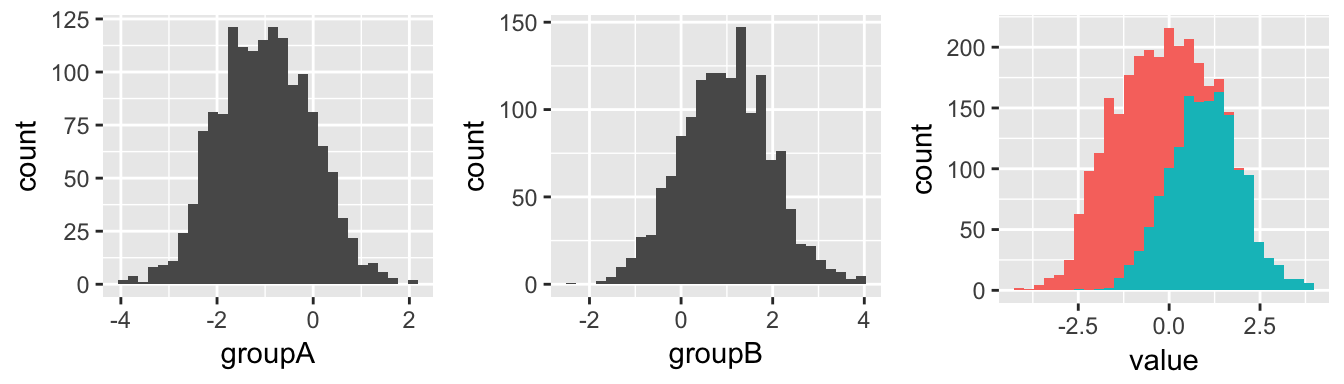
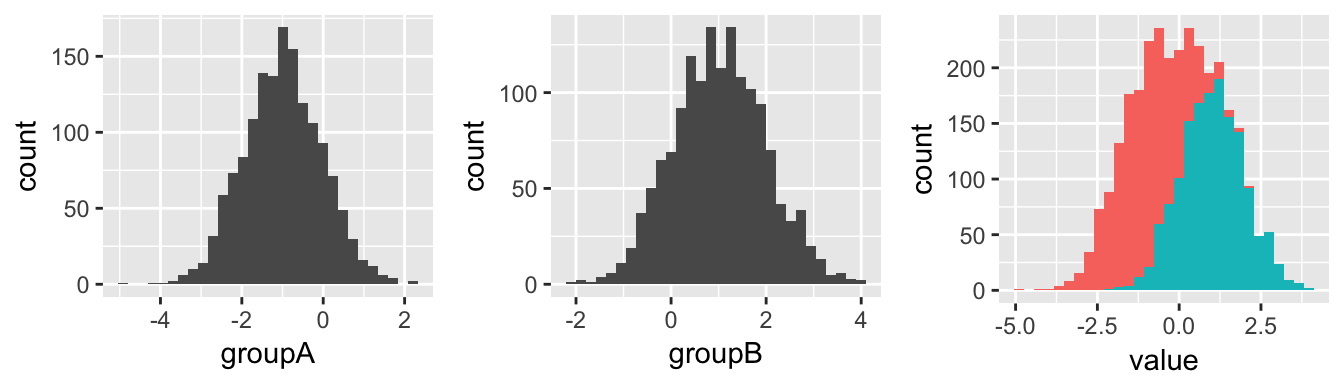
udpated

diff --git a/ttest.html b/ttest.html
@@ -316,18 +316,6 @@ div.tocify {
     </li>
   </ul>
 </li>
-<li class="dropdown">
-  <a href="#" class="dropdown-toggle" data-toggle="dropdown" role="button" aria-expanded="false">
-    Sample Analyses
-     
-    <span class="caret"></span>
-  </a>
-  <ul class="dropdown-menu" role="menu">
-    <li>
-      <a href="GOTS7tweets.html">Text Analysis</a>
-    </li>
-  </ul>
-</li>
       </ul>
       <ul class="nav navbar-nav navbar-right">
         
@@ -369,13 +357,13 @@ div.tocify {
 ##  Welch Two Sample t-test
 ## 
 ## data:  listA and listB
-## t = -54.672, df = 2996.5, p-value &lt; 2.2e-16
+## t = -55.822, df = 2995.8, p-value &lt; 2.2e-16
 ## alternative hypothesis: true difference in means is not equal to 0
 ## 95 percent confidence interval:
-##  -2.094016 -1.949018
+##  -2.097696 -1.955332
 ## sample estimates:
 ##  mean of x  mean of y 
-## -1.0328177  0.9886994</code></pre>
+## -0.9955335  1.0309805</code></pre>
 <ul>
 <li><p>Large <strong>t-value</strong> and a Small <strong>p-value &lt;.01</strong> = we accept the hypothesis that the means of list A and list B show statistically significant differences at a 99% confidence interval.</p></li>
 <li><p><strong>listA mean</strong> is estimated at approxiately -1 and <strong>listB mean</strong> is estimated at approximately 1.</p></li>
@@ -399,28 +387,28 @@ listB &lt;- rnorm(1500, mean = 1)  #Produce list of random values w/ mean of 1 &
 </thead>
 <tbody>
 <tr class="odd">
-<td align="right">-1.3545005</td>
-<td align="right">1.5403710</td>
+<td align="right">-1.0496810</td>
+<td align="right">1.0545169</td>
 </tr>
 <tr class="even">
-<td align="right">-1.6375959</td>
-<td align="right">0.1420701</td>
+<td align="right">-1.5027733</td>
+<td align="right">1.2537240</td>
 </tr>
 <tr class="odd">
-<td align="right">-0.2843273</td>
-<td align="right">0.0084206</td>
+<td align="right">-0.7705414</td>
+<td align="right">1.9502973</td>
 </tr>
 <tr class="even">
-<td align="right">0.0531385</td>
-<td align="right">0.1398901</td>
+<td align="right">-1.0109034</td>
+<td align="right">-0.8806415</td>
 </tr>
 <tr class="odd">
-<td align="right">-3.1462450</td>
-<td align="right">1.6279171</td>
+<td align="right">-1.1865402</td>
+<td align="right">0.9516308</td>
 </tr>
 <tr class="even">
-<td align="right">0.2457779</td>
-<td align="right">1.7787919</td>
+<td align="right">-0.6934949</td>
+<td align="right">0.7760313</td>
 </tr>
 </tbody>
 </table>
@@ -430,13 +418,13 @@ listB &lt;- rnorm(1500, mean = 1)  #Produce list of random values w/ mean of 1 &
 ##  Welch Two Sample t-test
 ## 
 ## data:  listA and listB
-## t = -53.562, df = 2996.4, p-value &lt; 2.2e-16
+## t = -55.034, df = 2994.4, p-value &lt; 2.2e-16
 ## alternative hypothesis: true difference in means is not equal to 0
 ## 95 percent confidence interval:
-##  -2.037818 -1.893889
+##  -2.070223 -1.927783
 ## sample estimates:
 ##  mean of x  mean of y 
-## -0.9579611  1.0078923</code></pre>
+## -0.9887373  1.0102655</code></pre>
 <p><br/></p>
 </div>
 <div id="if-data-are-contained-in-1-dataset-distinguished-by-a-binary-grouping-variable" class="section level4">
@@ -455,27 +443,27 @@ kable(head(groupAB))</code></pre>
 <tbody>
 <tr class="odd">
 <td align="left">listA</td>
-<td align="right">-1.3545005</td>
+<td align="right">-1.0496810</td>
 </tr>
 <tr class="even">
 <td align="left">listA</td>
-<td align="right">-1.6375959</td>
+<td align="right">-1.5027733</td>
 </tr>
 <tr class="odd">
 <td align="left">listA</td>
-<td align="right">-0.2843273</td>
+<td align="right">-0.7705414</td>
 </tr>
 <tr class="even">
 <td align="left">listA</td>
-<td align="right">0.0531385</td>
+<td align="right">-1.0109034</td>
 </tr>
 <tr class="odd">
 <td align="left">listA</td>
-<td align="right">-3.1462450</td>
+<td align="right">-1.1865402</td>
 </tr>
 <tr class="even">
 <td align="left">listA</td>
-<td align="right">0.2457779</td>
+<td align="right">-0.6934949</td>
 </tr>
 </tbody>
 </table>
@@ -485,13 +473,13 @@ kable(head(groupAB))</code></pre>
 ##  Welch Two Sample t-test
 ## 
 ## data:  value by groupAB
-## t = -53.562, df = 2996.4, p-value &lt; 2.2e-16
+## t = -55.034, df = 2994.4, p-value &lt; 2.2e-16
 ## alternative hypothesis: true difference in means is not equal to 0
 ## 95 percent confidence interval:
-##  -2.037818 -1.893889
+##  -2.070223 -1.927783
 ## sample estimates:
 ## mean in group listA mean in group listB 
-##          -0.9579611           1.0078923</code></pre>
+##          -0.9887373           1.0102655</code></pre>
 <p><br/></p>
 </div>
 </div>
@@ -505,13 +493,13 @@ kable(head(groupAB))</code></pre>
 ##  Paired t-test
 ## 
 ## data:  value by groupAB
-## t = -54.266, df = 1499, p-value &lt; 2.2e-16
+## t = -54.726, df = 1499, p-value &lt; 2.2e-16
 ## alternative hypothesis: true difference in means is not equal to 0
 ## 95 percent confidence interval:
-##  -2.036913 -1.894794
+##  -2.070654 -1.927352
 ## sample estimates:
 ## mean of the differences 
-##               -1.965853</code></pre>
+##               -1.999003</code></pre>
 <ul>
 <li><p>Large <strong>t-value</strong> and a Small <strong>p-value &lt;.01</strong> = we accept the hypothesis that the means of listA and listB show statistically significant differences at a 99% confidence interval.</p></li>
 <li><p>The <strong>mean of the differences:</strong> As the name implies, this shows the mean of the differences between groups. <em>When comparing experimental results on the same group of subjects, this might be considered something of an effect size</em>.</p></li>

diff --git a/chisquare.html b/chisquare.html
@@ -494,16 +494,16 @@ kable(AB)</code></pre>
 </thead>
 <tbody>
 <tr class="odd">
-<td align="right">55</td>
-<td align="right">51</td>
 <td align="right">48</td>
-<td align="right">46</td>
+<td align="right">54</td>
+<td align="right">43</td>
+<td align="right">55</td>
 </tr>
 <tr class="even">
-<td align="right">30</td>
-<td align="right">13</td>
-<td align="right">39</td>
-<td align="right">118</td>
+<td align="right">21</td>
+<td align="right">8</td>
+<td align="right">41</td>
+<td align="right">130</td>
 </tr>
 </tbody>
 </table>
@@ -514,7 +514,7 @@ kable(AB)</code></pre>
 ##  Pearson&#39;s Chi-squared test
 ## 
 ## data:  AB
-## X-squared = 62.456, df = 3, p-value = 1.755e-13</code></pre>
+## X-squared = 75.147, df = 3, p-value = 3.369e-16</code></pre>
 <p>A p-value less than the signficiance level of .1/.05/.01 tells us that these groups show statistically significant differences in their distributions between the 4 categories. <strong>The samples are heterogeneous</strong></p>
 <p><br/> <br/></p>
 <p><strong>Homogenous Example:</strong> Two samples show a similar distribution between 4 categories.</p>
@@ -544,16 +544,16 @@ kable(AB)</code></pre>
 </thead>
 <tbody>
 <tr class="odd">
-<td align="right">51</td>
-<td align="right">48</td>
-<td align="right">52</td>
-<td align="right">49</td>
+<td align="right">46</td>
+<td align="right">54</td>
+<td align="right">55</td>
+<td align="right">45</td>
 </tr>
 <tr class="even">
-<td align="right">55</td>
-<td align="right">50</td>
-<td align="right">48</td>
 <td align="right">47</td>
+<td align="right">57</td>
+<td align="right">61</td>
+<td align="right">35</td>
 </tr>
 </tbody>
 </table>
@@ -563,7 +563,7 @@ kable(AB)</code></pre>
 ##  Pearson&#39;s Chi-squared test
 ## 
 ## data:  AB
-## X-squared = 0.39343, df = 3, p-value = 0.9416</code></pre>
+## X-squared = 1.6522, df = 3, p-value = 0.6476</code></pre>
 <p>A p-value greater than the signficiance level of .1/.05/.01 tells us that these groups do not show statistically significant differences in their distributions between the 4 categories. <strong>The samples are homogeneous</strong></p>
 <p><br/> <br/></p>
 <hr width="90%">
@@ -595,7 +595,7 @@ MyTest$data.name</code></pre>
 <h4>statistic (chi-squared test statistic)</h4>
 <pre class="r"><code>MyTest$statistic</code></pre>
 <pre><code>## X-squared 
-## 0.3934264</code></pre>
+##  1.652179</code></pre>
 </div>
 <div id="parameter-degrees-of-freedom" class="section level4">
 <h4>parameter (degrees of freedom)</h4>
@@ -606,7 +606,7 @@ MyTest$data.name</code></pre>
 <div id="p.value-p-value-for-the-test" class="section level4">
 <h4>p.value (p-value for the test)</h4>
 <pre class="r"><code>MyTest$p.value</code></pre>
-<pre><code>## [1] 0.9415971</code></pre>
+<pre><code>## [1] 0.6476174</code></pre>
 </div>
 <div id="method-type-of-test-performed" class="section level4">
 <h4>method (Type of test performed)</h4>
@@ -617,22 +617,22 @@ MyTest$data.name</code></pre>
 <h4>observed (observations)</h4>
 <pre class="r"><code>MyTest$observed</code></pre>
 <pre><code>##       1  2  3  4
-## [1,] 51 48 52 49
-## [2,] 55 50 48 47</code></pre>
+## [1,] 46 54 55 45
+## [2,] 47 57 61 35</code></pre>
 </div>
 <div id="expected-expected-counts-under-the-null-hypothesis-or-given-probabilty" class="section level4">
 <h4>expected (expected counts under the null hypothesis or given probabilty)</h4>
 <pre class="r"><code>MyTest$expected</code></pre>
-<pre><code>##       1  2  3  4
-## [1,] 53 49 50 48
-## [2,] 53 49 50 48</code></pre>
+<pre><code>##         1    2  3  4
+## [1,] 46.5 55.5 58 40
+## [2,] 46.5 55.5 58 40</code></pre>
 </div>
 <div id="residuals-pearson-residuals" class="section level4">
 <h4>residuals (Pearson residuals)</h4>
 <pre class="r"><code>MyTest$residuals</code></pre>
-<pre><code>##               1          2          3          4
-## [1,] -0.2747211 -0.1428571  0.2828427  0.1443376
-## [2,]  0.2747211  0.1428571 -0.2828427 -0.1443376</code></pre>
+<pre><code>##                1          2          3          4
+## [1,] -0.07332356 -0.2013468 -0.3939193  0.7905694
+## [2,]  0.07332356  0.2013468  0.3939193 -0.7905694</code></pre>
 <hr width="90%">
 </div>
 </div>

diff --git a/GOTS7tweets.html b/GOTS7tweets.html
@@ -230,18 +230,6 @@ $(document).ready(function () {
     </li>
   </ul>
 </li>
-<li class="dropdown">
-  <a href="#" class="dropdown-toggle" data-toggle="dropdown" role="button" aria-expanded="false">
-    Sample Analyses
-     
-    <span class="caret"></span>
-  </a>
-  <ul class="dropdown-menu" role="menu">
-    <li>
-      <a href="GOTS7tweets.html">Text Analysis</a>
-    </li>
-  </ul>
-</li>
       </ul>
       <ul class="nav navbar-nav navbar-right">
         
